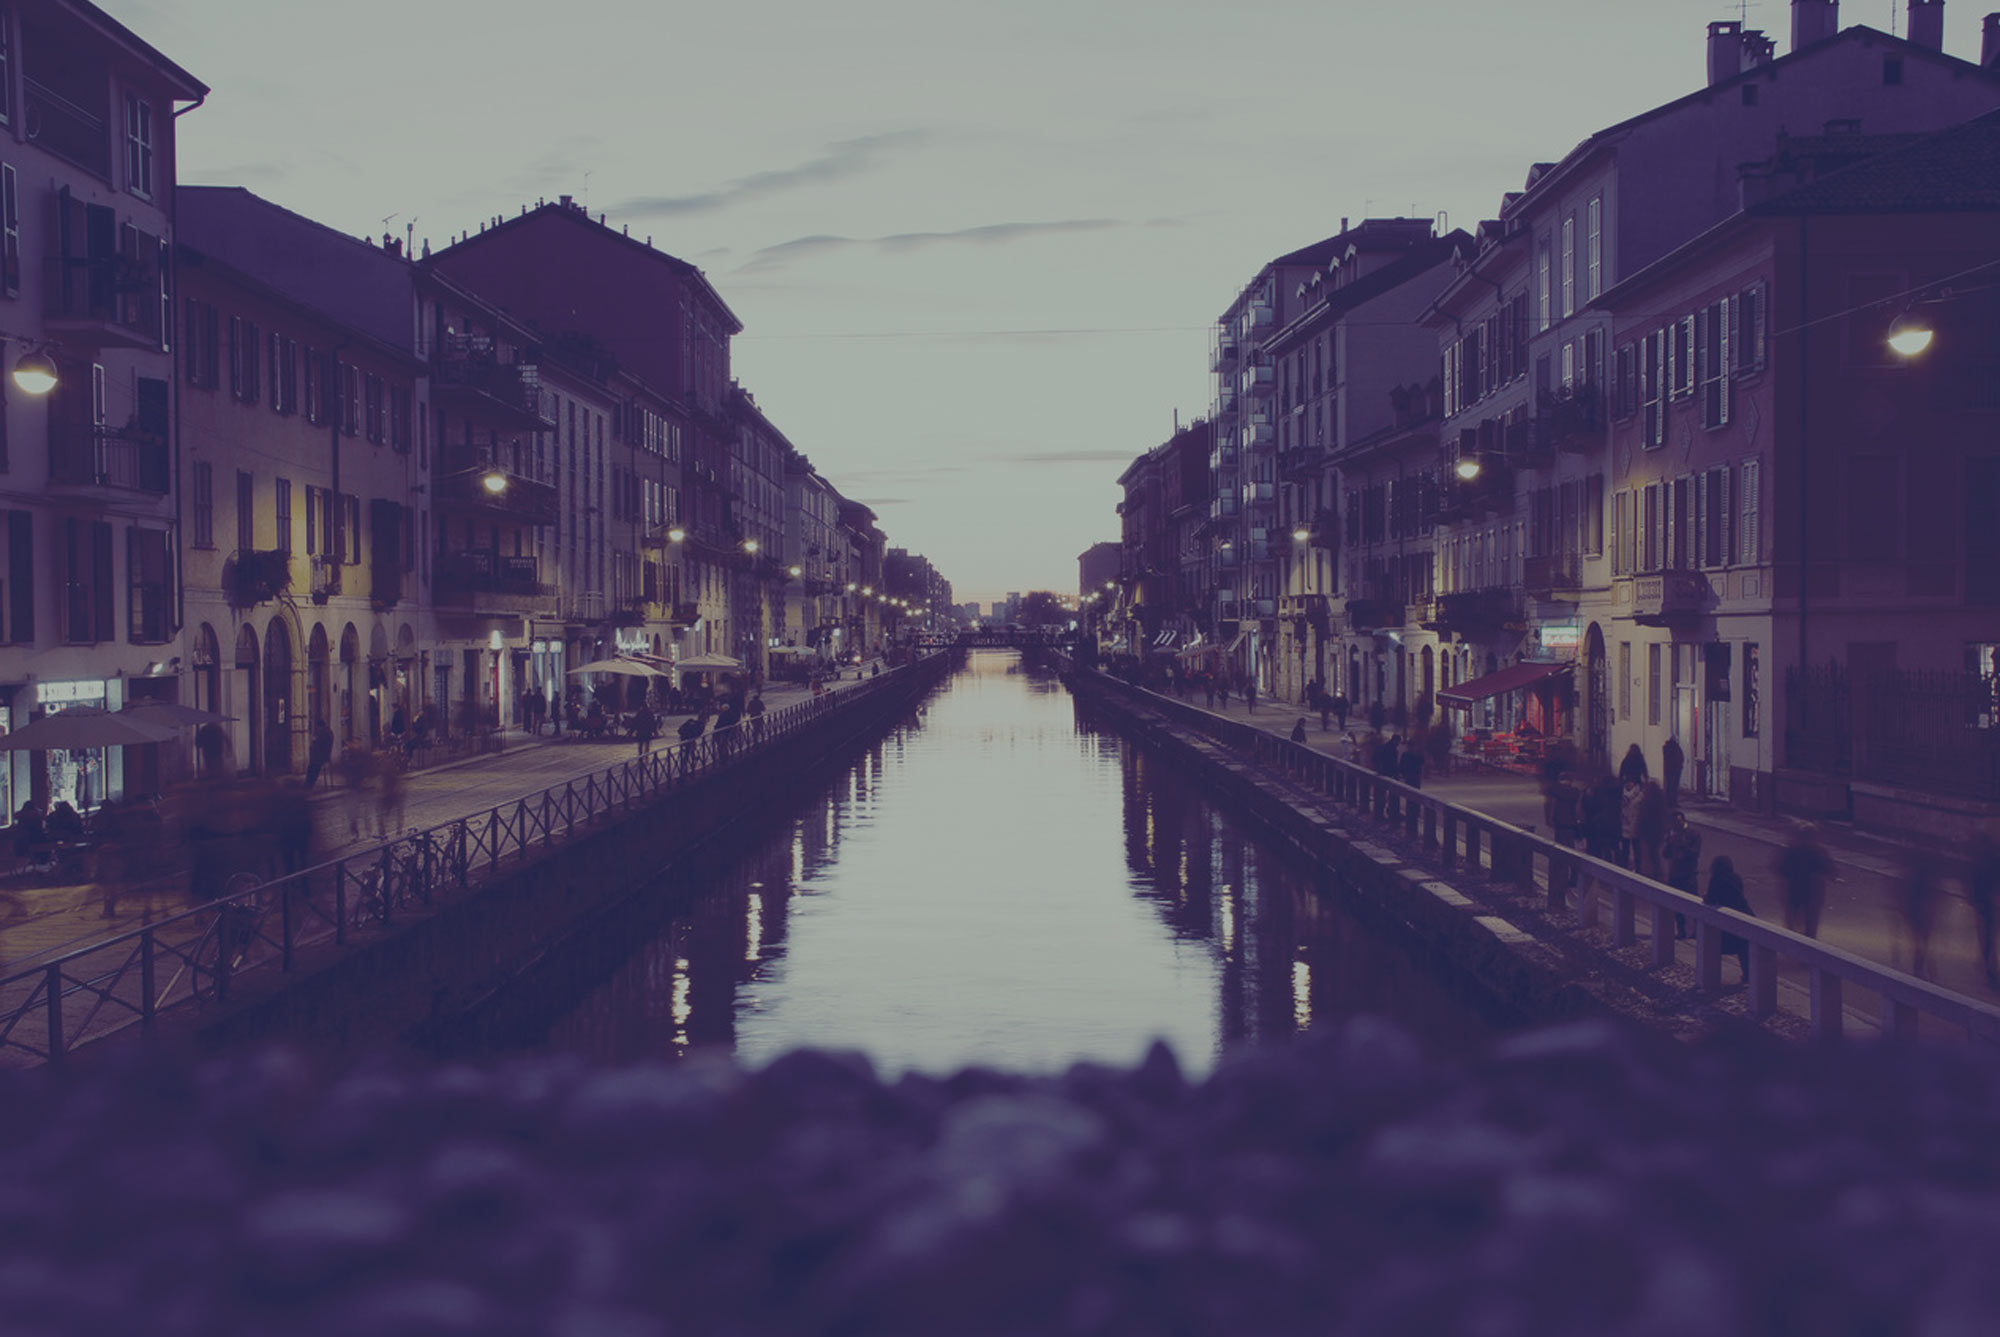
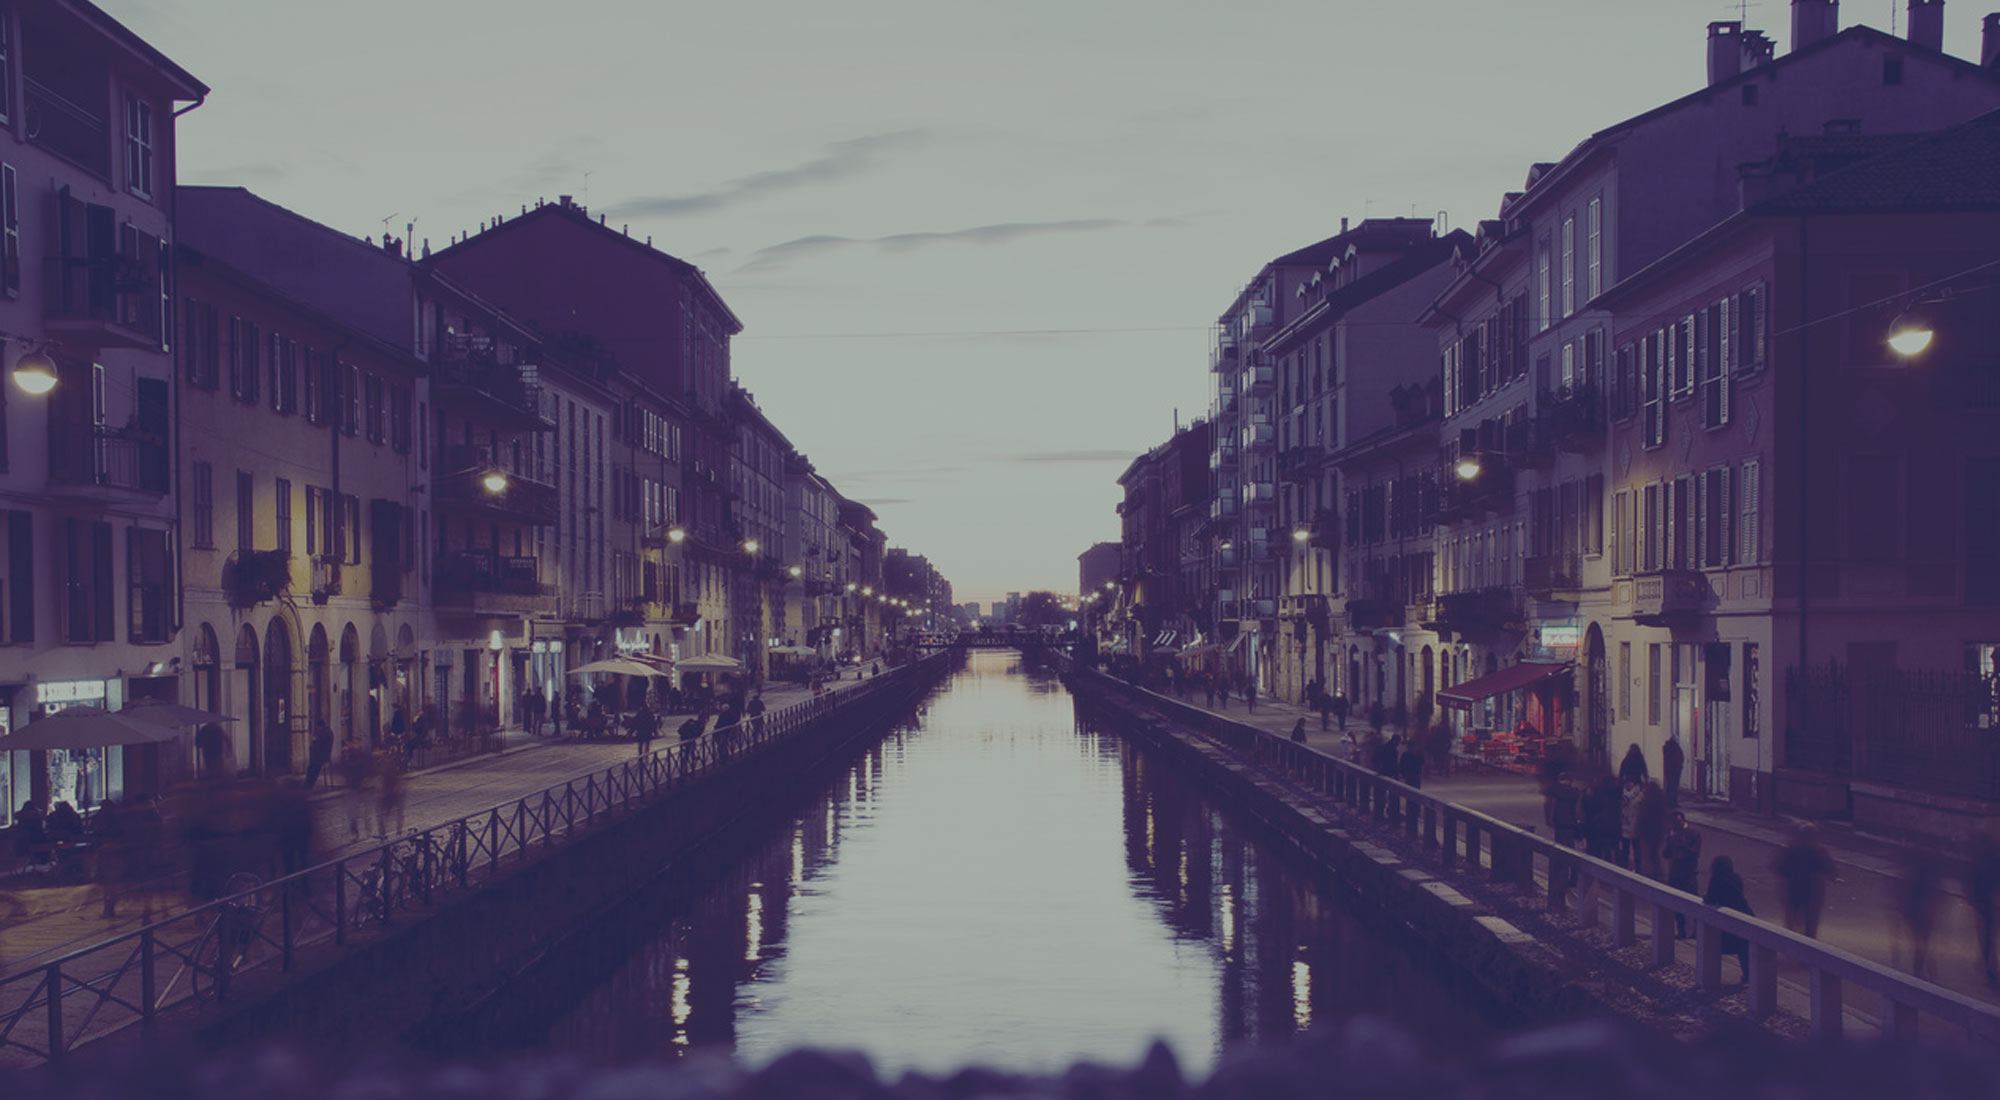
added and styled the about us and divider1 sections

diff --git a/css/style.scss b/css/style.scss
@@ -39,7 +39,7 @@
   background-image: url("../images/top-image.jpg");
   background-size: 100%;
   color: $my-white;
-  padding-bottom: 58.55%;
+  padding-bottom: 56.55%;
   height: 0;
   background-repeat: no-repeat;
   max-height: 100px;
@@ -147,7 +147,7 @@ nav {
 .advantages {
   width: 100%;
   background-color: #eeeeee;
-  padding-bottom: 29%;
+  padding-bottom: 20%;
   .text {
     padding-top: 70%;
     padding-bottom: 50%;
@@ -168,7 +168,114 @@ nav {
   img {
     height: 65%;
   }
+}
 
+.about-us {
+  padding-top: 10%;
+  padding-bottom: 20%;
+  * {
+    padding: 0.2%;
+  }
+  h2 {
+    font-family: "existencelight", sans-serif;
+    font-size: 2rem;
+    padding-bottom: 10%;
+    padding-top: 1.5%;
+    span {
+      color: $my-purple;
+    }
+  }
+  p {
+    text-align: left;
+    line-height: 2;
+    color: $my-black;
+    font-size: 0.9rem;
+    padding-bottom: 30%;
+  }
+  .content {
+    position: relative;
+    //padding-bottom: 22%;
+    display: flex;
+    flex-wrap: wrap;
+
+  }
+  img {
+    padding-right: 3%;
+  }
+  button {
+    height: 60px;
+    width: 200px;
+    text-align: center;
+    vertical-align: bottom;
+    color: white;
+    background-color: $my-purple;
+    border-radius: 15px;
+    border: none;
+    outline: none;
+    align-self: flex-end;
+
+
+  }
+  .corner-left {
+    position: absolute;
+    left: 40%;
+    top: 7%;
+  }
+  .corner-right {
+    position: absolute;
+    right: 38%;
+    top: 0;
+  }
+}
+
+.divider1 {
+  background-image: url("../images/divider1.jpg");
+  background-size: 100%;
+  color: $my-white;
+  padding-bottom: 30.55%;
+  height: 0;
+  background-repeat: no-repeat;
+  max-height: 100px;
+}
+
+.hexagon-divider {
+  margin-top: 6%;
+  margin-bottom: 2rem;
+}
+ .divider {
+   h3 {
+     font-size: 2rem;
+   }
+ }
+
+.our-team {
+  padding-top: 10%;
+  padding-bottom: 20%;
+  * {
+    padding: 0.2%;
+  }
+  h2 {
+    font-family: "existencelight", sans-serif;
+    font-size: 2rem;
+    padding-bottom: 10%;
+    padding-top: 1.5%;
+    span {
+      color: $my-purple;
+    }
+  }
+  .corner-left {
+    position: absolute;
+    left: 41%;
+    top: 20%;
+  }
+  .corner-right {
+    position: absolute;
+    right: 41%;
+    top: 0;
+  }
+  .arrow {
+    width: 30%;
+  }
 }
 
 

diff --git a/css/style.css b/css/style.css
@@ -107,7 +107,7 @@
   background-image: url("../images/top-image.jpg");
   background-size: 100%;
   color: white;
-  padding-bottom: 58.55%;
+  padding-bottom: 56.55%;
   height: 0;
   background-repeat: no-repeat;
   max-height: 100px;
@@ -199,7 +199,7 @@ nav li {
 .advantages {
   width: 100%;
   background-color: #eeeeee;
-  padding-bottom: 29%;
+  padding-bottom: 20%;
 }
 .advantages .text {
   padding-top: 70%;
@@ -220,6 +220,109 @@ nav li {
 }
 .hexagon-gray img {
   height: 65%;
+}
+
+.about-us {
+  padding-top: 10%;
+  padding-bottom: 20%;
+}
+.about-us * {
+  padding: 0.2%;
+}
+.about-us h2 {
+  font-family: "existencelight", sans-serif;
+  font-size: 2rem;
+  padding-bottom: 10%;
+  padding-top: 1.5%;
+}
+.about-us h2 span {
+  color: #9f449b;
+}
+.about-us p {
+  text-align: left;
+  line-height: 2;
+  color: black;
+  font-size: 0.9rem;
+  padding-bottom: 30%;
+}
+.about-us .content {
+  position: relative;
+  display: flex;
+  flex-wrap: wrap;
+}
+.about-us img {
+  padding-right: 3%;
+}
+.about-us button {
+  height: 60px;
+  width: 200px;
+  text-align: center;
+  vertical-align: bottom;
+  color: white;
+  background-color: #9f449b;
+  border-radius: 15px;
+  border: none;
+  outline: none;
+  align-self: flex-end;
+}
+.about-us .corner-left {
+  position: absolute;
+  left: 40%;
+  top: 7%;
+}
+.about-us .corner-right {
+  position: absolute;
+  right: 38%;
+  top: 0;
+}
+
+.divider1 {
+  background-image: url("../images/divider1.jpg");
+  background-size: 100%;
+  color: white;
+  padding-bottom: 30.55%;
+  height: 0;
+  background-repeat: no-repeat;
+  max-height: 100px;
+}
+
+.hexagon-divider {
+  margin-top: 6%;
+  margin-bottom: 2rem;
+}
+
+.divider h3 {
+  font-size: 2rem;
+}
+
+.our-team {
+  padding-top: 10%;
+  padding-bottom: 20%;
+}
+.our-team * {
+  padding: 0.2%;
+}
+.our-team h2 {
+  font-family: "existencelight", sans-serif;
+  font-size: 2rem;
+  padding-bottom: 10%;
+  padding-top: 1.5%;
+}
+.our-team h2 span {
+  color: #9f449b;
+}
+.our-team .corner-left {
+  position: absolute;
+  left: 41%;
+  top: 20%;
+}
+.our-team .corner-right {
+  position: absolute;
+  right: 41%;
+  top: 0;
+}
+.our-team .arrow {
+  width: 30%;
 }
 
 /*# sourceMappingURL=style.css.map */

diff --git a/index.html b/index.html
@@ -149,6 +149,57 @@
 </div>
 
 
+<div class="about-us">
+    <div class="container">
+        <img class="corner-left" src="images/icons/corner-left.svg">
+        <h2 class="row">About <span>us</span></h2>
+        <img class="corner-right" src="images/icons/corner-right.svg">
+
+        <div class="row">
+            <img class="col-7" src="images/computers.png">
+            <div class="col-5 content">
+                <p class="row">Aliquam metus neque, bibendum sit amet porta at, consequat et
+                    enim. In ut turpis non ipsum rhoncus porttitor vel ac nunc.
+                    Maecenas interdum dignissim lorem quis auctor. Donec sit amet
+                    nulla nisl, aliquam pretium ipsum. Pellentesque sodales ipsum et
+                    enim rutrum adipiscing. Quisque tincidunt mattis sapien,
+                    vel posuere.</p>
+                <button class="row">Learn more</button>
+            </div>
+        </div>
+    </div>
+
+</div>
+<div class="row divider divider1">
+    <div class="container">
+        <div class="col-5"></div>
+        <div class="col-2 hexagon hexagon-divider">
+            <img src="images/icons/study.svg">
+        </div>
+        <h3 class="row">We lorem and ipsum your aliquam</h3>
+    </div>
+</div>
+<div class="our-team">
+    <div class="container">
+
+        <img class="corner-left" src="images/icons/corner-left.svg">
+        <h2 class="row">Our <span>team</span></h2>
+        <img class="corner-right" src="images/icons/corner-right.svg">
+
+        <div class="row ">
+            <div class="col-5"></div>
+            <div class="arrows col-2">
+                <img class="arrow arrow-left" src="images/icons/arrow-left.png">
+                <img class="arrow arrow-right" src="images/icons/arrow-right.png">
+            </div>
+        </div>
+
+
+
+    </div>
+</div>
+
+
 
 </body>
 </html>
